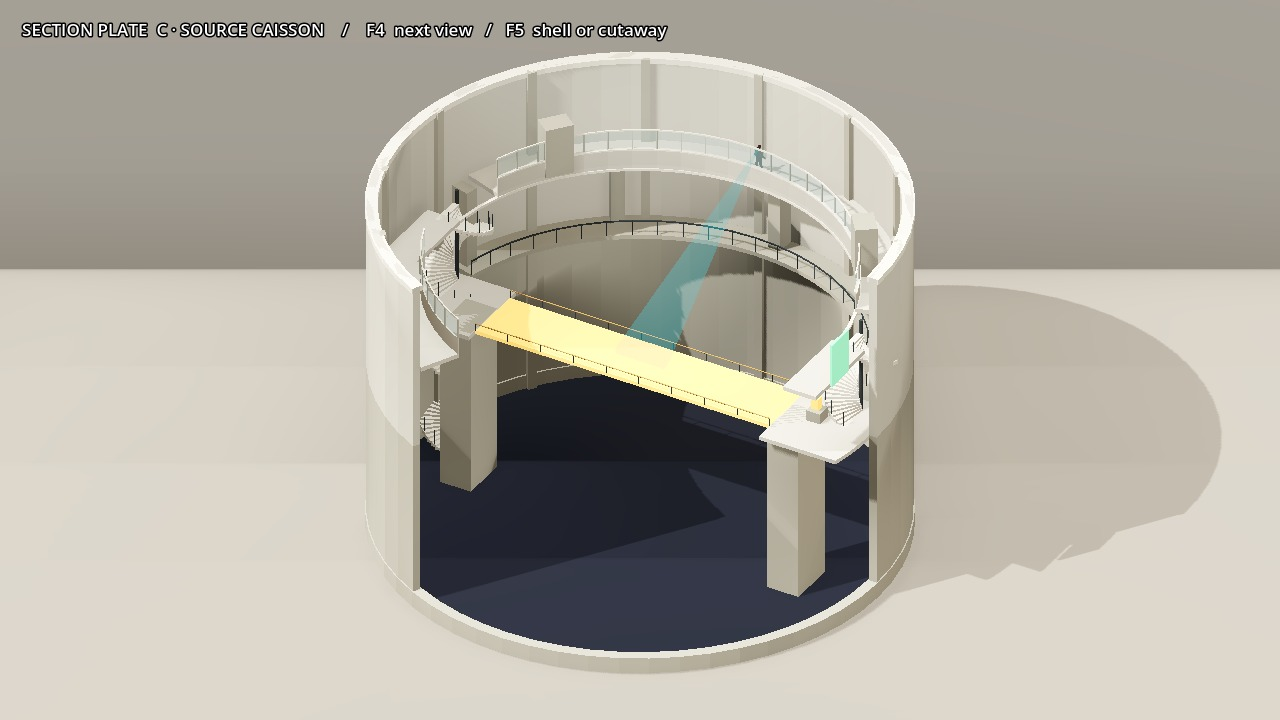
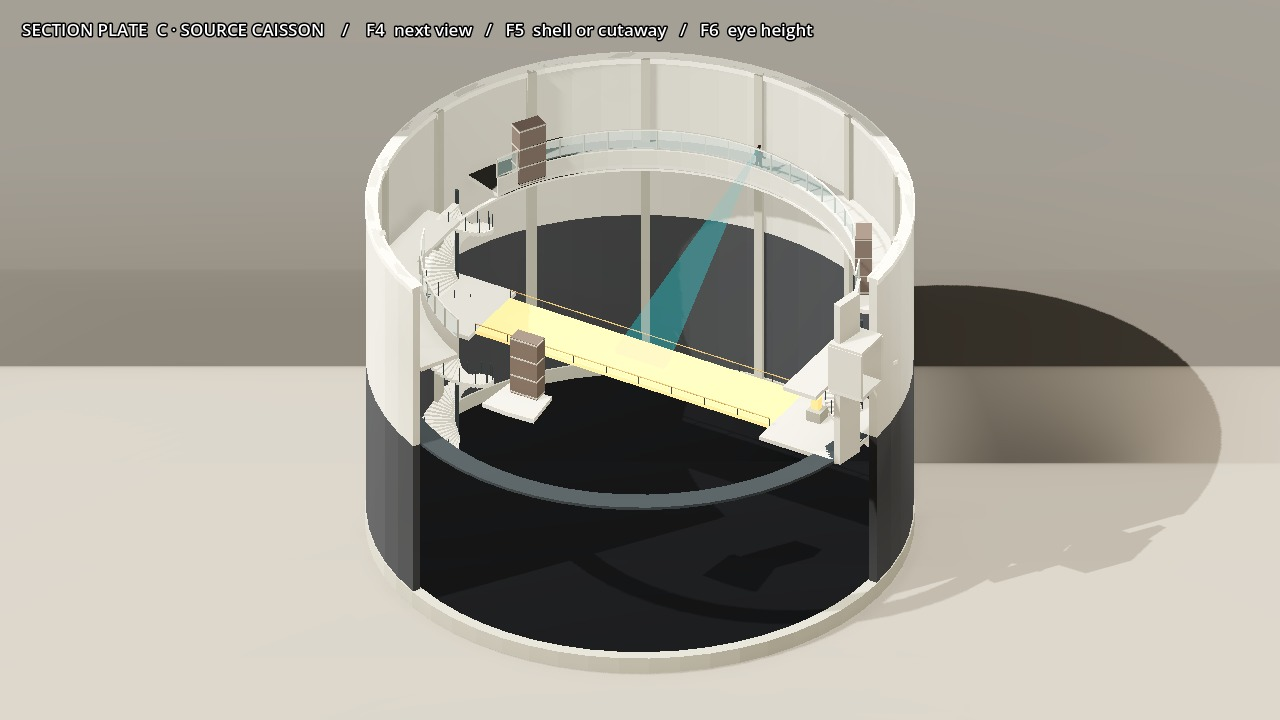
Restore archive teaching sightline and enforce caisson route geometry

diff --git a/docs/production/expedition-01/README.md b/docs/production/expedition-01/README.md
@@ -10,9 +10,16 @@
 |---|---|---|
 | A 沉浸长廊 | 长 36 m，每 6 m 一跨。两端保留拱口，中跨只露远侧拱脚和弧段。近墙切低，仍能辨认通往档案翼的门。 | [长廊](arcade.jpg) · [玩家视角](entrance.jpg) |
 | B 档案翼 | 侧门进入前室，经书架与观察玻璃接下沉试验区，再穿过暗廊到释放闸。露出玻璃、琥珀板、塌方与闸具；顶盖在行走时恢复。 | [档案翼](archive.jpg) |
-| C 源井 | 内径 28 m；井底 −10 m、主桥 0 m、观察环 +4.8 m、井口 +10 m。主桥 18 × 3.6 m。井壁由环扇组成，剖窗两侧保留全高墙翼，底缘保留一圈；西梯延到井底标高，桥两端落在实体承台上。 | [剖开](caisson.jpg) · [同机位合壳](caisson-shell.jpg) |
+| C 源井 | 内径 28 m；井底 −10 m、主桥 0 m、观察环 +4.8 m、井口 +10 m。主桥 18 × 3.6 m。井壁由环扇组成，剖窗两侧保留全高墙翼，底缘保留一圈；西梯延到井底标高，桥跨下方留空，桥面层北侧断开，南侧仅有 1.25 m 宽的耗油栈桥。 | [剖开](caisson.jpg) · [同机位合壳](caisson-shell.jpg) |
+
+## 第一人称核对
+
+- [三段剖面总图](section-overview.jpg)。F6 在审图中轮换三个 1.57 m 眼高机位：[从 B2 观察测试板](b2-window.jpg)、[B5 拉杆与观察口](b5-release.jpg)、[从 C1 望向桥面](c1-span.jpg)。
+- B3 坑底为 −0.60 m。从档案室移开目光，观察宽限结束后板降入坑中；重新注视，板回到坑沿。进入测试室后板保持升起，供首次教学安全通行。
+- C 段南栈桥每秒消耗 2.5 灯油，耗尽会回检查点。观察环三根实心砖柱相隔 120°，柱宽 1.6 m；Hale 从眼高检查主桥上的 3 × 3 × 3 个采样点，玻璃透视，砖柱遮挡。
+- 物理回归检查南北弧段的落脚面、三个柱后盲点和北窗视线、B1 封堵、B3 板升降；玩家胶囊实走南栈桥往返并检查油耗，然后按主桥解法完成回程。
 
 ## 复现与差异
 
 - `WalkTest.gd` 用玩家胶囊依次走过三个区段，检查试验板、补给、开闸、Hale 到位、过桥取芯、登右梯、绿门返回 B5、穿回长廊和交还信号。运行：`godot --headless --fixed-fps 60 --path . --script res://scenes/expedition_01/WalkTest.gd`。
-- 绿门后的回程以过门切换接到 B5；当前版本没有可连续步行的回廊内景。井底是失足恢复区。图中未给出背面施工尺寸的井盖与围护采用简化实体，环廊栏板、桥台截面、窗套和螺旋梯节距均为白模推定值。实机图用于进一步核对这些比例。
+- 绿门后的回程以过门切换接到 B5；当前版本没有可连续步行的回廊内景。井底是失足恢复区。图中未给出背面施工尺寸的井盖与围护采用简化实体，环廊栏板、窗套和螺旋梯节距均为白模推定值。实机图用于进一步核对这些比例。
